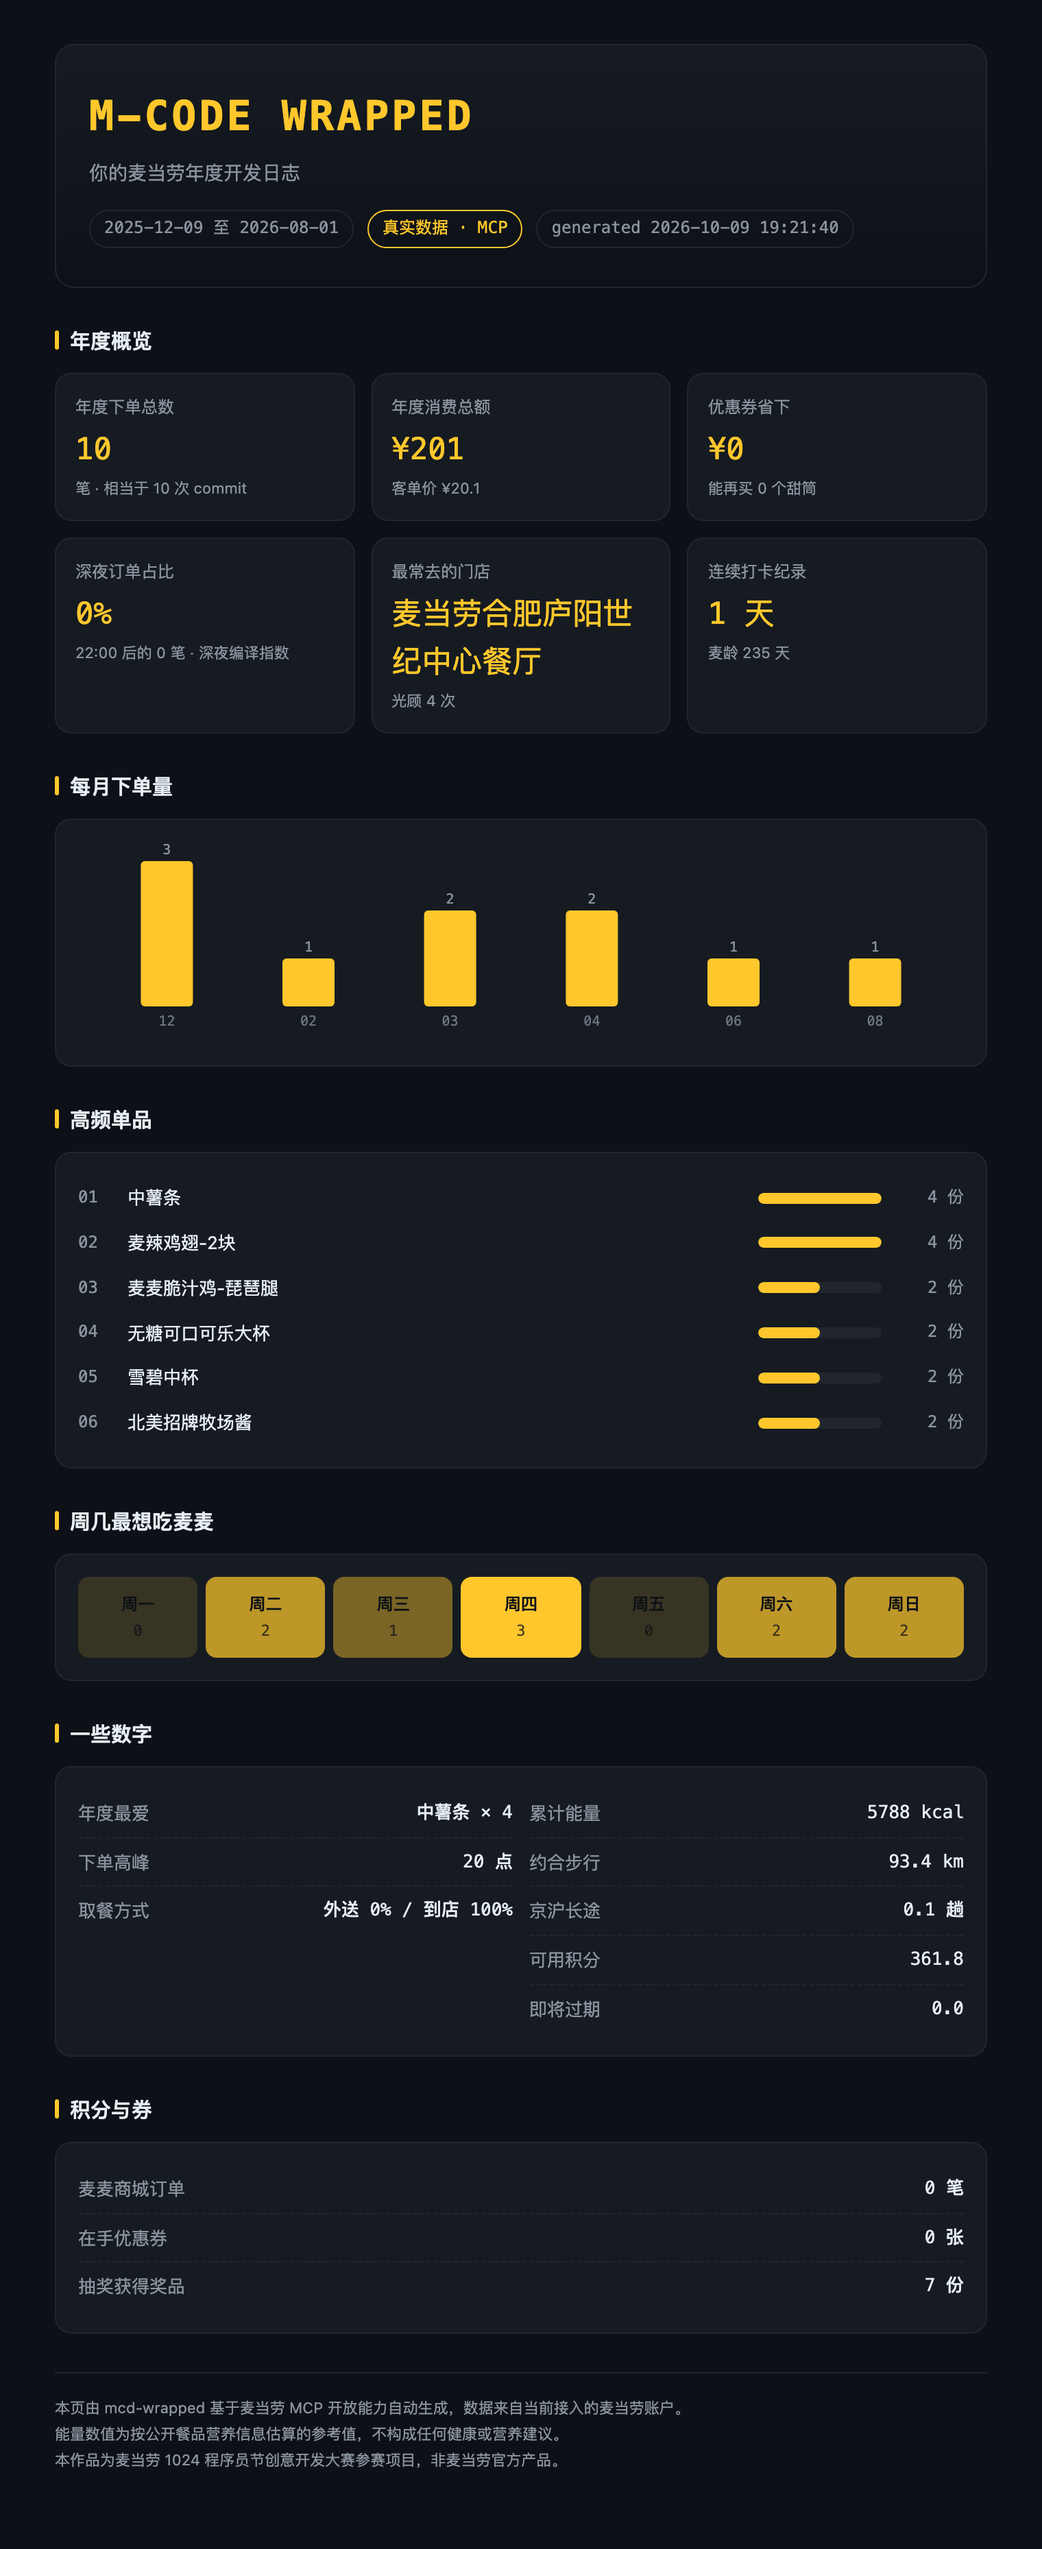
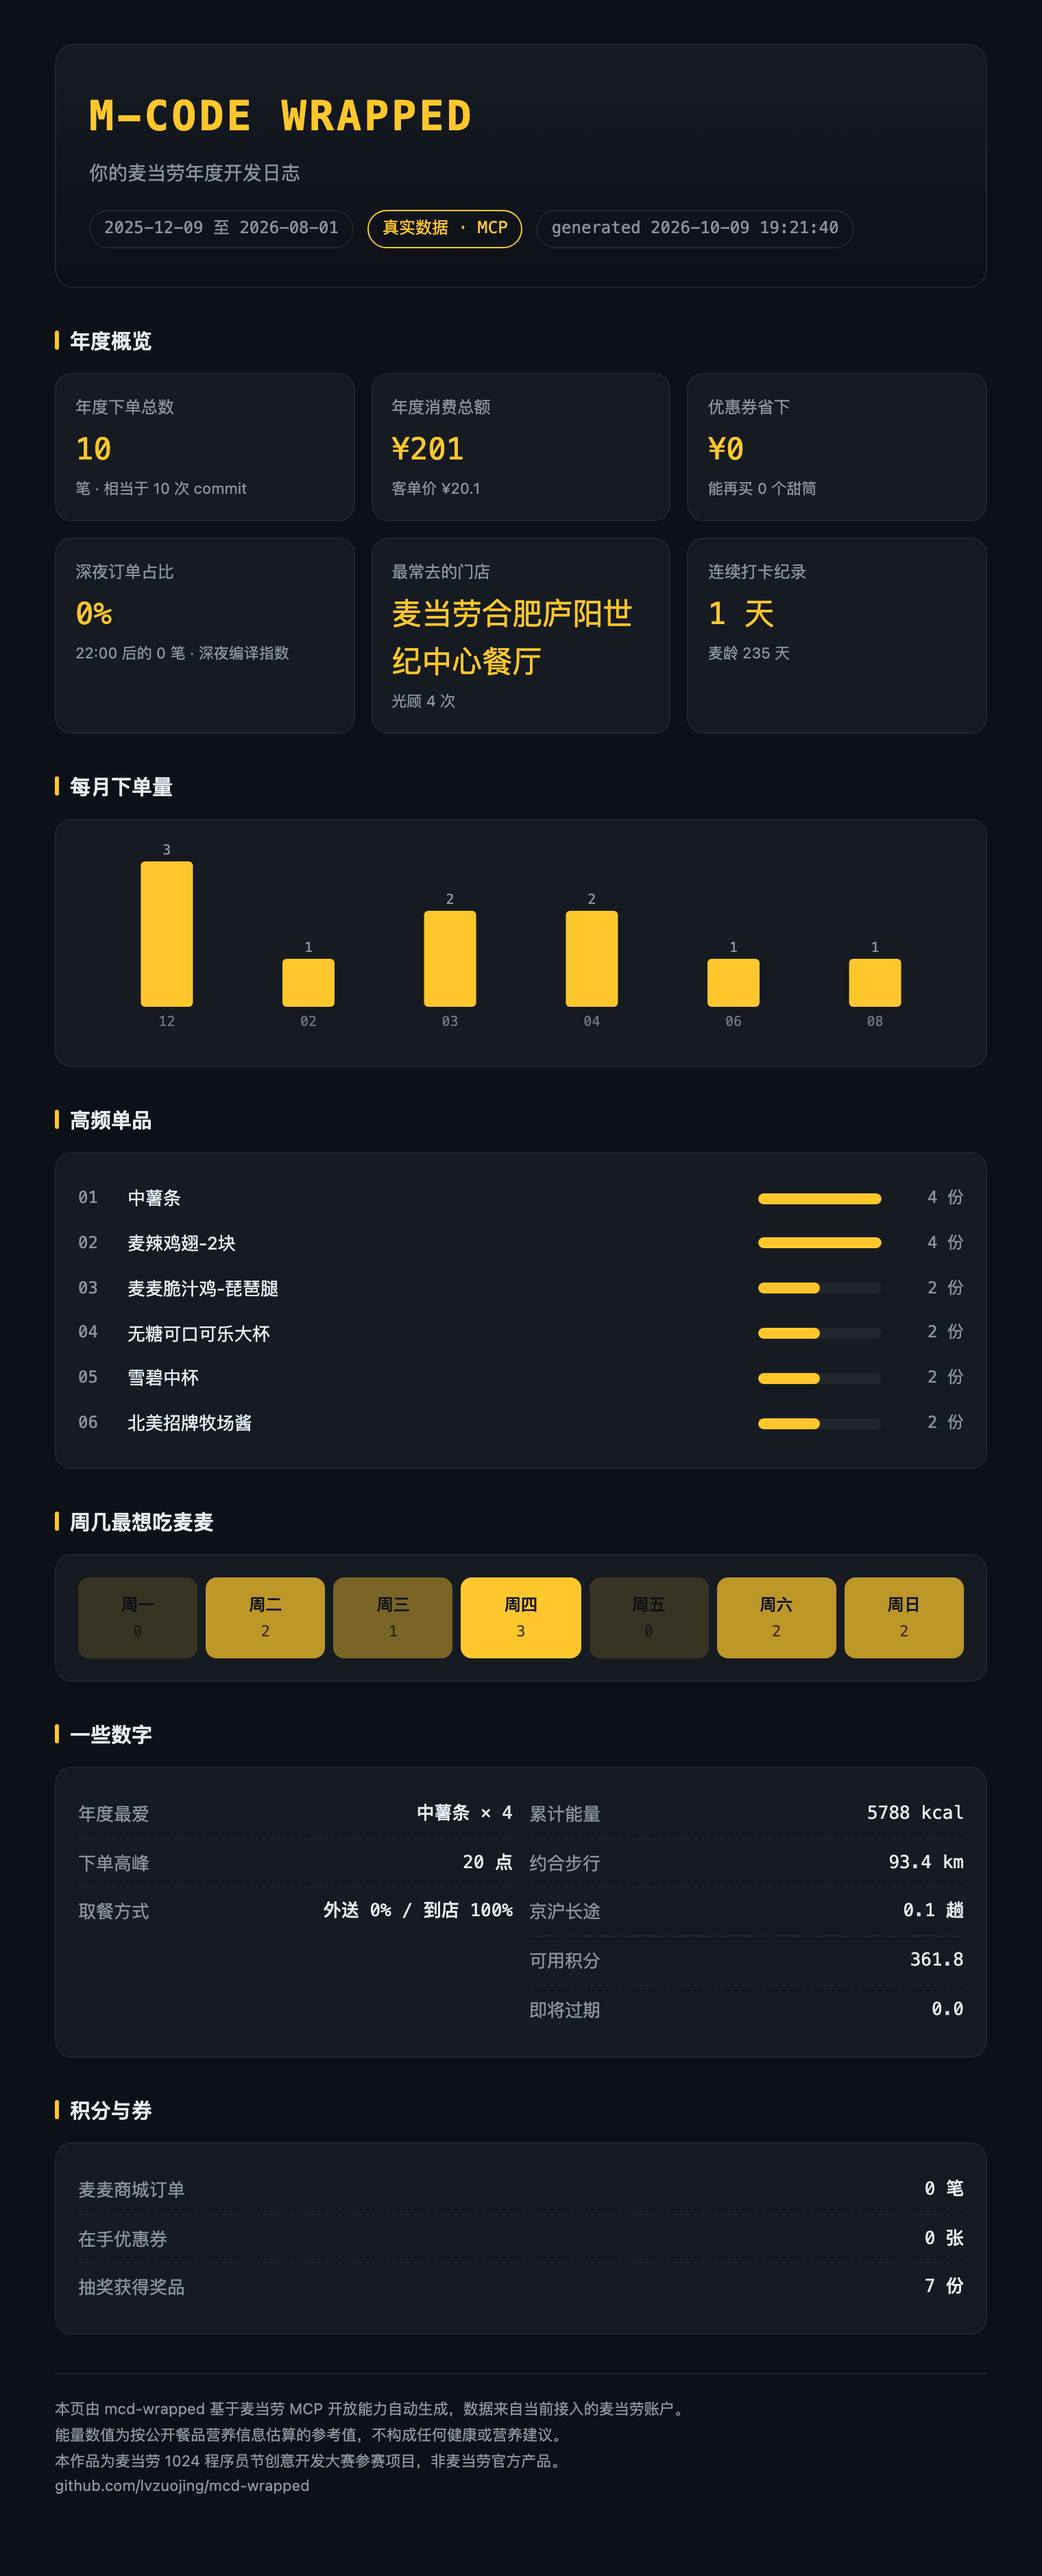
feat: 所有发布物料补上仓库链接
- 新增 SOCIAL_POSTS.md：无引用符号的纯文案，三大渠道可直接复制
  （朋友圈/小红书均给出可粘贴的完整 URL，小红书注明外链放评论区）
- PROMO.md 中「链接在评论」改为明确 URL
- 年报与全景报告页脚新增仓库地址（此前只有推广海报有）
- 修复 build_panorama.py 与 build_report.py 默认输出撞同一文件的问题
  （已分别输出到 out/panorama.html 与 out/mcd-wrapped.html）
- 新增 assets/xiaohongshu.svg + out/xiaohongshu.png（1080x1440 竖版）
- 重新生成 preview.png / panorama.png

diff --git a/out/panorama.html b/out/panorama.html
@@ -158,7 +158,7 @@ footer{margin-top:30px;padding-top:16px;border-top:1px solid var(--line);
 <div class="panel"><table class="mall"><tr><th>商品</th><th>类目</th><th>积分</th><th>现金价</th></tr><tr><td class="n">麦当劳亲子读书会</td><td class="c">读书会</td><td class="p">—</td><td class="p">¥45</td></tr><tr><td class="n">麦当劳奇妙生日派对</td><td class="c">生日类派对</td><td class="p">—</td><td class="p">¥50</td></tr><tr><td class="n">麦当劳一起开心鸭尊享版生日派对</td><td class="c">生日类派对</td><td class="p">—</td><td class="p">¥138</td></tr><tr><td class="n">迪士尼奇妙生日探索之旅</td><td class="c">生日类派对</td><td class="p">—</td><td class="p">¥45</td></tr><tr><td class="n">开心特工派对 之 深海探秘</td><td class="c">主题类派对</td><td class="p">—</td><td class="p">¥198</td></tr><tr><td class="n">麦麦奇妙夜捣蛋派对尊享版</td><td class="c">主题类派对</td><td class="p">—</td><td class="p">¥128</td></tr><tr><td class="n">麦当劳过家家派对</td><td class="c">主题类派对</td><td class="p">—</td><td class="p">¥55</td></tr><tr><td class="n">四小福永远好朋友派对常规版</td><td class="c">主题类派对</td><td class="p">—</td><td class="p">¥58</td></tr><tr><td class="n">麦当劳过家家派对尊享版</td><td class="c">主题类派对</td><td class="p">—</td><td class="p">¥118</td></tr><tr><td class="n">四小福永远好朋友派对豪华版</td><td class="c">主题类派对</td><td class="p">—</td><td class="p">¥88</td></tr><tr><td class="n">万马奔腾开心派对常规版</td><td class="c">主题类派对</td><td class="p">—</td><td class="p">¥58</td></tr><tr><td class="n">麦当劳海底小纵队欢乐派对（常规版）</td><td class="c">主题类派对</td><td class="p">—</td><td class="p">¥58</td></tr><tr><td class="n">麦当劳趣读派对2025</td><td class="c">主题类派对</td><td class="p">—</td><td class="p">¥45</td></tr><tr><td class="n">麦当劳狂欢生日派对 迪士尼疯狂动物城主题（尊享版）</td><td class="c">生日类派对</td><td class="p">—</td><td class="p">¥98</td></tr><tr><td class="n">麦当劳狂欢生日派对 迪士尼疯狂动物城主题</td><td class="c">生日类派对</td><td class="p">—</td><td class="p">¥58</td></tr><tr><td class="n">麦当劳一起开心鸭生日派对</td><td class="c">生日类派对</td><td class="p">—</td><td class="p">¥50</td></tr><tr><td class="n">一年一度品虾会</td><td class="c">品鉴会</td><td class="p">—</td><td class="p">¥25.9</td></tr><tr><td class="n">金拱门板记尝新会</td><td class="c">品鉴会</td><td class="p">—</td><td class="p">¥29.9</td></tr><tr><td colspan="4" style="color:var(--muted);font-size:11px">…另有 32 件商品，完整清单见 data/public_data.json</td></tr></table></div>
 
 <footer>
-  数据来源：麦当劳中国 MNCP（<span class='mono'>https://mcp.mcd.cn</span>），由本 Skill 实时调用 campaign-calendar、query-lottery-info、mall-points-products 等 8 个官方 tool 获取，未经人工编造。<br>生成方式：<span class='mono'>scripts/public_data.py</span> 采集 → <span class='mono'>scripts/build_panorama.py</span> 渲染。接入个人 Token 可再生成个人消费年报（<span class='mono'>scripts/collect.py</span>）。<br>本页为麦当劳 1024 程序员节创意开发大赛参赛作品，仅作数据可视化展示，不构成任何消费或参与建议。营养数据为官方单品参考值。
+  数据来源：麦当劳中国 MNCP（<span class='mono'>https://mcp.mcd.cn</span>），由本 Skill 实时调用 campaign-calendar、query-lottery-info、mall-points-products 等 8 个官方 tool 获取，未经人工编造。<br>生成方式：<span class='mono'>scripts/public_data.py</span> 采集 → <span class='mono'>scripts/build_panorama.py</span> 渲染。<br>项目地址：<span class='mono'>github.com/lvzuojing/mcd-wrapped</span>接入个人 Token 可再生成个人消费年报（<span class='mono'>scripts/collect.py</span>）。<br>本页为麦当劳 1024 程序员节创意开发大赛参赛作品，仅作数据可视化展示，不构成任何消费或参与建议。营养数据为官方单品参考值。
 </footer>
 
 </div>

diff --git a/assets/report_template.html b/assets/report_template.html
@@ -111,7 +111,8 @@ footer{margin-top:28px;padding-top:16px;border-top:1px solid var(--line);
 <footer>
   本页由 mcd-wrapped 基于麦当劳 MCP 开放能力自动生成，数据来自当前接入的麦当劳账户。<br>
   能量数值为按公开餐品营养信息估算的参考值，不构成任何健康或营养建议。<br>
-  本作品为麦当劳 1024 程序员节创意开发大赛参赛项目，非麦当劳官方产品。
+  本作品为麦当劳 1024 程序员节创意开发大赛参赛项目，非麦当劳官方产品。<br>
+  github.com/lvzuojing/mcd-wrapped
 </footer>
 
 </div>

diff --git a/out/mcd-wrapped.html b/out/mcd-wrapped.html
@@ -111,7 +111,8 @@ footer{margin-top:28px;padding-top:16px;border-top:1px solid var(--line);
 <footer>
   本页由 mcd-wrapped 基于麦当劳 MCP 开放能力自动生成，数据来自当前接入的麦当劳账户。<br>
   能量数值为按公开餐品营养信息估算的参考值，不构成任何健康或营养建议。<br>
-  本作品为麦当劳 1024 程序员节创意开发大赛参赛项目，非麦当劳官方产品。
+  本作品为麦当劳 1024 程序员节创意开发大赛参赛项目，非麦当劳官方产品。<br>
+  github.com/lvzuojing/mcd-wrapped
 </footer>
 
 </div>

diff --git a/scripts/build_panorama.py b/scripts/build_panorama.py
@@ -289,7 +289,8 @@ def render(data, template_path=TEMPLATE):
             "数据来源：麦当劳中国 MNCP（<span class='mono'>https://mcp.mcd.cn</span>），"
             "由本 Skill 实时调用 %s 等 %d 个官方 tool 获取，未经人工编造。<br>"
             "生成方式：<span class='mono'>scripts/public_data.py</span> 采集 → "
-            "<span class='mono'>scripts/build_panorama.py</span> 渲染。"
+            "<span class='mono'>scripts/build_panorama.py</span> 渲染。<br>"
+            "项目地址：<span class='mono'>github.com/lvzuojing/mcd-wrapped</span>"
             "接入个人 Token 可再生成个人消费年报（<span class='mono'>scripts/collect.py</span>）。<br>"
             "本页为麦当劳 1024 程序员节创意开发大赛参赛作品，仅作数据可视化展示，"
             "不构成任何消费或参与建议。营养数据为官方单品参考值。"

diff --git a/SOCIAL_POSTS.md b/SOCIAL_POSTS.md
@@ -1,0 +1,166 @@
+# 可直接复制的发布文案
+
+> 本文件无引用符号，选中即可复制。仓库链接统一为：
+> https://github.com/lvzuojing/mcd-wrapped
+
+---
+
+## 渠道 2 · V2EX / 掘金
+
+**标题：** 对接麦当劳 MCP 踩的 3 个坑，以及一个把 35 个接口全跑了一遍的探测器
+
+**正文：**
+
+这几天在玩麦当劳办的「1024 程序员节创意开发大赛」，要求基于麦当劳 MCP（https://mcp.mcd.cn）开发 Skill。
+
+官方仓库是 `M-China/mcd-developer-innovation-challenge`，MCP 指南在 `M-China/mcd-mcp-server`。文档写了有哪些 tool、入参大概长什么样，但真实对接下来发现好几处没说清楚，记录一下。
+
+### 坑 1：返回体不是 JSON
+
+官方示例里 tool 返回都是 JSON，但实际返回的是 Markdown 文本：
+
+```
+## 字段说明
+...
+
+## Original Response
+{"code":0,"data":{...}}
+```
+
+直接 `json.loads()` 会失败。必须先切到 `## Original Response` 后面的那段文本，再交给 JSON 解析。
+
+### 坑 2：营养数据是纯文本表格
+
+`list-nutrition-foods` 返回的 `data` 不是数组，是一个字符串，里面是按行排列的逗号分隔表格，大概 160 行：
+
+```
+{productName,nutritionDescription,energyKj,energyKcal,...}:
+猪柳麦满分,null,1288,308,16,16,24,781,213
+...
+```
+
+需要按行切、按逗号 split，再自己处理表头和转义。
+
+### 坑 3：空数据返回中文文案
+
+比如 `query-my-coupons`，没券的时候返回的是：
+
+```
+暂无可用优惠券
+```
+
+不是空数组，不是 `{"list":[]}`，也不是 `null`。按空数组处理会漏掉这种 case，解析器要兜底。
+
+### 坑 4：订单金额字段名
+
+订单接口的字段名也偏。金额字段叫 `realTotalAmount`，不是常见的 `totalAmount` / `payAmount`。而且有些订单这个值是 `"0"`（全额抵扣或兑换单），求和时得区分。
+
+### 探测器：把 35 个接口全跑了一遍
+
+干脆写了个探测器 `scripts/explore.py`，把所有 tool 调一遍，记录真实返回形态。几个数字：
+
+- 服务端实际暴露 **35 个** tool，官方文档写的是 33 个
+- **27 个**只读接口实测调通，自动串联参数（比如从 `order-list` 取 `storeCode` 喂给 `query-meals`）
+- **7 个**写操作默认不调用：`create-order` / `cancel-order` / `draw-lottery` / `auto-bind-coupons` / `mall-create-order` / `party-order-create` / `delivery-create-address`
+- **1 个**缺参数：`delivery-query-stores` 需要 `addressId`，拿不到
+
+顺带挖出几个没人用的数据源：`query-party-city` 有 **281 个城市**，`query-meals` 有 **15 个在售餐品**，`query-promotions` 有 **12 个促销**。
+
+### 抽奖 EV 精算
+
+`query-lottery-info` 返回的真实奖池：10 种奖品，24 积分抽一次。用蒙特卡洛跑了一下：
+
+- 10 连抽消耗 **240 积分**
+- 期望换回 **30.2 积分**
+- **净亏 209.8 积分**
+
+结论：抽奖的价值全在券，不在积分。券用不掉就是打水漂。麦当劳没公布中奖概率，以上基于等概率假设模拟，脚本本身也从不动真抽奖。
+
+### 数据全景报告
+
+还把公共数据聚合成了一份单文件 HTML 报告：158 个餐品营养、当月营销日历、抽奖池、麦麦省可领券、积分商城。不需要消费记录也能出报告。
+
+### 仓库
+
+https://github.com/lvzuojing/mcd-wrapped
+
+零第三方依赖，纯 Python 标准库。如果对麦当劳 MCP 有兴趣，可以直接跑 `scripts/explore.py`，所有真实返回都落盘在 `data/raw/` 里，拿去用就行。觉得有用的话点个 Star 就当给踩坑费了。
+
+---
+
+## 渠道 3 · 朋友圈
+
+**配图：** `out/poster.png`（横版海报，推荐）或再加 `out/preview.png`（年报长图）
+
+### 版本 B（反直觉钩子，推荐）
+
+用麦当劳自己的接口数据算了下他们的积分抽奖：
+
+10 连抽 = 240 积分
+期望换回 = 30.2 积分
+净亏 = 209.8 积分
+
+结论：抽奖的价值在券不在积分，券用不掉就是亏。
+（官方没公布中奖概率，这是等概率假设下的模拟，脚本也从不真的抽奖）
+
+顺手做了个项目：把麦当劳 MCP 的 35 个接口全跑了一遍，27 个调通，7 个会真下单/扣积分的一律不碰。还用它生成了年度报告和一份数据全景。
+
+麦当劳 1024 程序员节创意开发大赛参赛作品，排名看 Star 数，觉得有意思帮我点个 Star：
+https://github.com/lvzuojing/mcd-wrapped
+
+### 版本 C（产品向钩子）
+
+用麦当劳官方数据做了个 MCP 工具箱：158 个餐品营养档案、当月营销日历、积分抽奖池、麦麦省可领券、积分商城——一次看透。
+
+还能用它生成年度消费年报，以及用粤语/方言把报告念出来。
+
+数据全部来自真实接口，不是编的。麦当劳 1024 程序员节创意开发大赛参赛作品，帮我点个 Star：
+https://github.com/lvzuojing/mcd-wrapped
+
+### 评论区单独发一条（朋友圈正文的链接不一定可点）
+
+https://github.com/lvzuojing/mcd-wrapped
+
+> 说明：朋友圈正文里的网址在部分版本不可点击，评论区再补一条纯链接更稳妥。
+
+---
+
+## 渠道 4 · 小红书 / 微博
+
+**配图：** `out/xiaohongshu.png`（竖版 3:4，图片底部已印有仓库地址）
+
+**正文：**
+
+麦当劳积分抽奖，240 积分换回 30.2 积分
+
+用麦当劳自己的接口数据算了一下：
+
+10 连抽 = 240 积分
+期望换回 = 30.2 积分
+净亏 = 209.8 积分
+
+结论：抽奖的价值在券不在积分，券用不掉就是亏。
+
+（官方没公布中奖概率，等概率假设下的模拟结果，脚本从不真抽奖）
+
+完整项目在图片底部，也可以看评论区 👇
+
+#麦当劳 #程序员节 #数据分析 #开源 #MCP
+
+### 评论区第一条（小红书正文外链会被限流，放评论区）
+
+https://github.com/lvzuojing/mcd-wrapped
+
+> 说明：小红书正文放外链容易被限流，因此链接放在图片底部 + 评论区两处。
+
+---
+
+## 配图清单
+
+| 文件 | 尺寸 | 用途 |
+|---|---|---|
+| `out/poster.png` | 1360×860 横版 | 朋友圈 / 开发者社群 |
+| `out/xiaohongshu.png` | 1080×1440 竖版 3:4 | 小红书 / 微博 |
+| `out/preview.png` | 年报长图 | 朋友圈补充图 |
+
+三张图底部均已印有仓库地址，即使文案里的链接失效也能找到。

diff --git a/PROMO.md b/PROMO.md
@@ -119,7 +119,7 @@
 > （麦当劳没公布中奖概率，这是等概率假设下的模拟，脚本也从不真的抽奖）
 >
 > 顺手做了个年度报告生成器，能看出你今年在麦当劳花了多少、最常去哪家店。
-> 链接在评论。
+> 帮我点个 Star：https://github.com/lvzuojing/mcd-wrapped
 >
 > ---
 >
@@ -130,7 +130,8 @@
 >
 > 还能用粤语把报告念出来。
 >
-> 数据全部来自真实接口，不是编的。链接在评论。
+> 数据全部来自真实接口，不是编的。
+> 帮我点个 Star：https://github.com/lvzuojing/mcd-wrapped
 
 ---
 
@@ -149,7 +150,12 @@
 >
 > （官方没公布概率，这是等概率假设的模拟）
 >
-> #麦当劳 #程序员 #数据分析
+> 完整项目在图片底部，也可以看评论区 👇
+>
+> #麦当劳 #程序员节 #数据分析 #开源 #MCP
+>
+> **评论区第一条**（小红书正文放外链会被限流，链接放评论区）：
+> `https://github.com/lvzuojing/mcd-wrapped`
 
 ---
 
